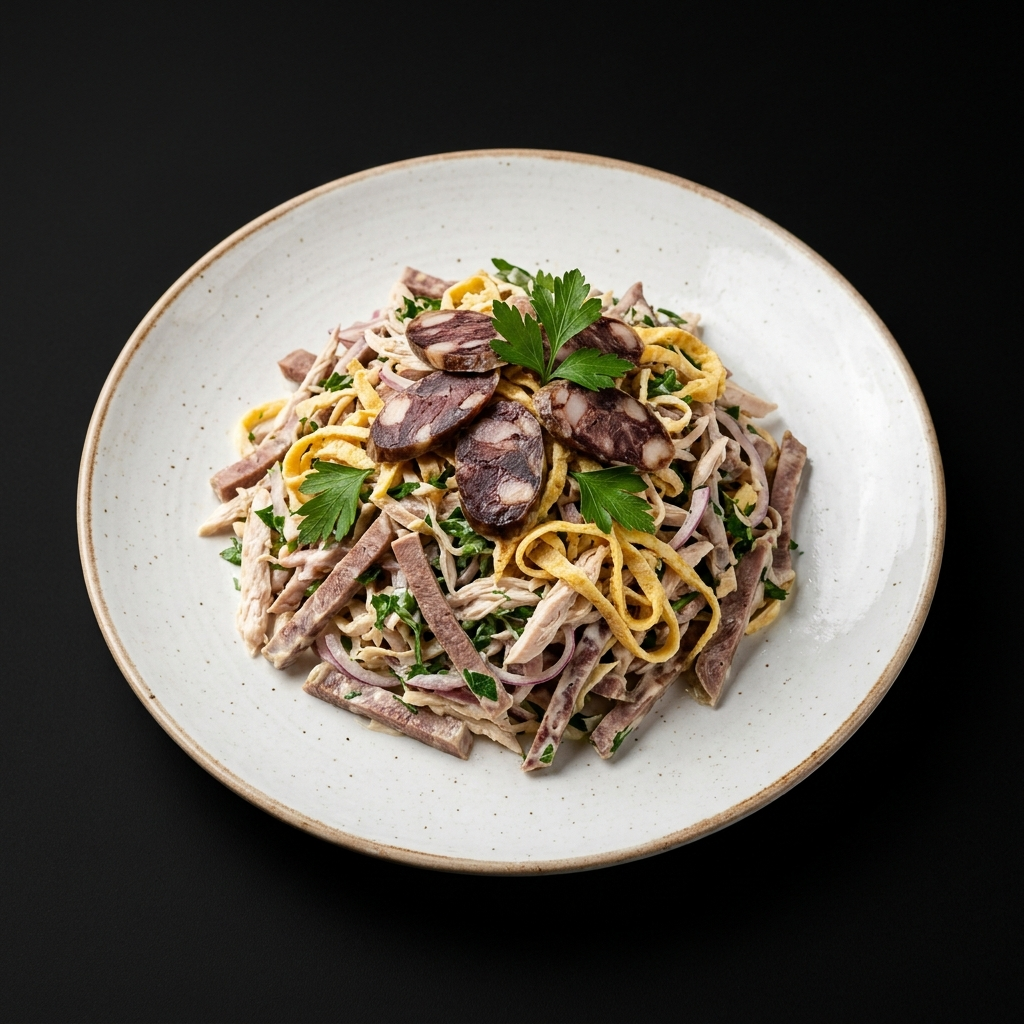
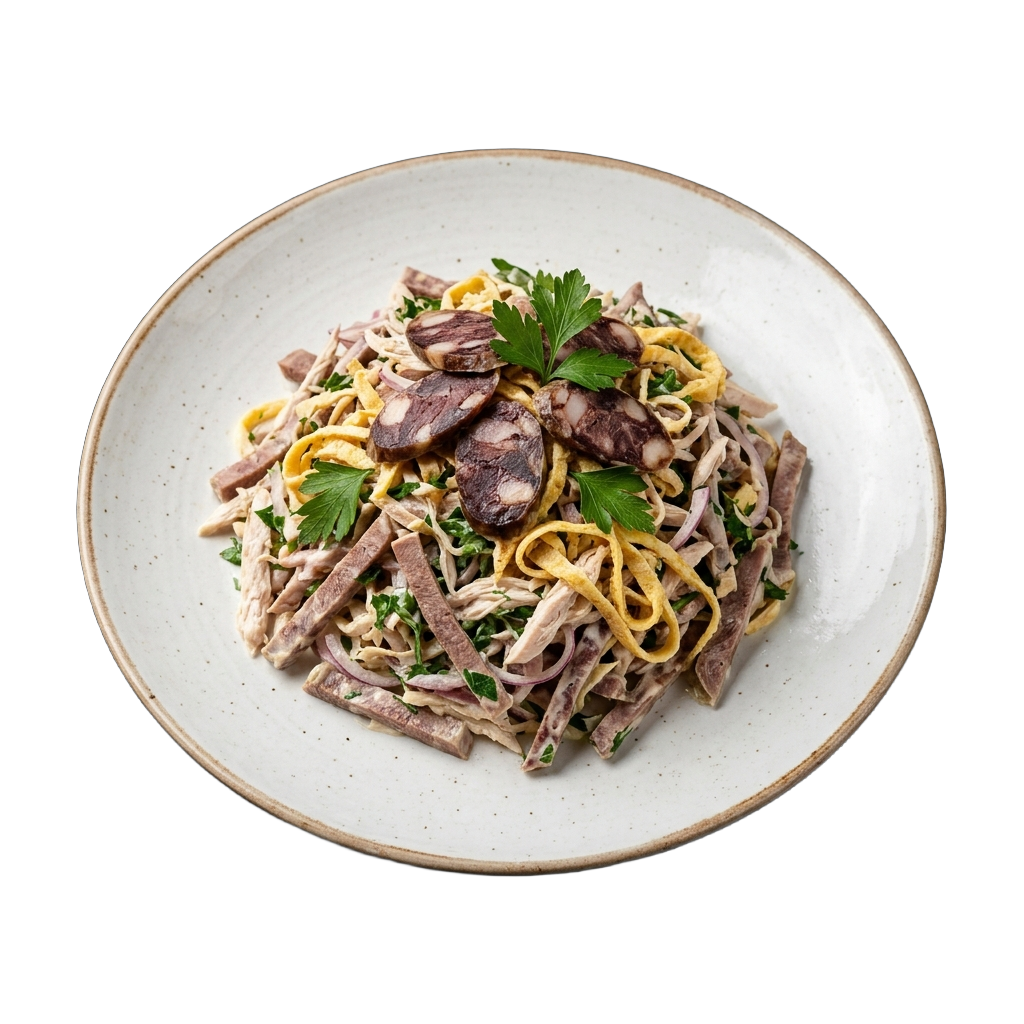
Align dish photos with loose_dish_pngs reference assets: transparent cutouts with soft drop shadow

diff --git a/fenix-restobar-website/app.html b/fenix-restobar-website/app.html
@@ -1039,6 +1039,10 @@ html[data-theme="light"] .theme-toggle-btn .icon-moon {
   background: var(--img-bg);
   flex-shrink: 0;
 }
+.cart-item-img.png-dish {
+  object-fit: contain;
+  padding: 3px;
+}
 
 .cart-item-info {
   flex: 1;
@@ -3425,15 +3429,17 @@ html[data-theme="light"] .recent-item-type {
     "korea-129": "img/dish/28.png",  // Хемультанг - 185 000
     "korea-110": "img/dish/29.png",  // Хе из курицы - 69 000
     "korea-106": "img/dish/30.png",  // Косари - 119 000
-    // Generated dish photos (Batch 1 & 2 - Tashkent restobar style on dark background)
-    "europe-001": "img/dish/europe-001.webp", // Селёдка традиционная
-    "europe-002": "img/dish/europe-002.webp", // Холодец
-    "europe-020": "img/dish/europe-020.webp", // Греческий
-    "europe-024": "img/dish/europe-024.webp", // Цезарь с курицей
-    "europe-029": "img/dish/europe-029.webp", // Мужской каприз
-    "europe-030": "img/dish/europe-030.webp", // Селёдка под шубой
-    "europe-031": "img/dish/europe-031.webp", // Оливье
-    "europe-035": "img/dish/europe-035.webp"  // Солянка
+    // Generated dish photos (Clean transparent cutouts matching loose_dish_pngs reference assets)
+    "europe-001": "img/dish/europe-001.png", // Селёдка традиционная
+    "europe-004": "img/dish/europe-004.png", // Холодец
+    "europe-020": "img/dish/europe-020.png", // Греческий
+    "europe-024": "img/dish/europe-024.png", // Цезарь с курицей
+    "europe-029": "img/dish/europe-029.png", // Мужской каприз
+    "europe-030": "img/dish/europe-030.png", // Селёдка под шубой
+    "europe-031": "img/dish/europe-031.png", // Оливье
+    "europe-032": "img/dish/europe-032.png", // Борщ
+    "europe-033": "img/dish/europe-033.png", // Солянка
+    "europe-034": "img/dish/europe-034.png"  // Лагман
   };
 
   function getDishPhoto(id) {
@@ -4577,7 +4583,7 @@ html[data-theme="light"] .recent-item-type {
       const title = getDishName(d);
       itemsHtml += `
         <div class="cart-item-row">
-          <img class="cart-item-img" src="${d.img || 'img/fenix-mark.svg'}" alt="${title}">
+          <img class="cart-item-img ${d.img && d.img.endsWith('.png') ? 'png-dish' : ''}" src="${d.img || 'img/fenix-mark.svg'}" alt="${title}">
           <div class="cart-item-info">
             <h4 class="cart-item-title">${title}</h4>
             <div class="cart-item-price">${money(d.price)}</div>
